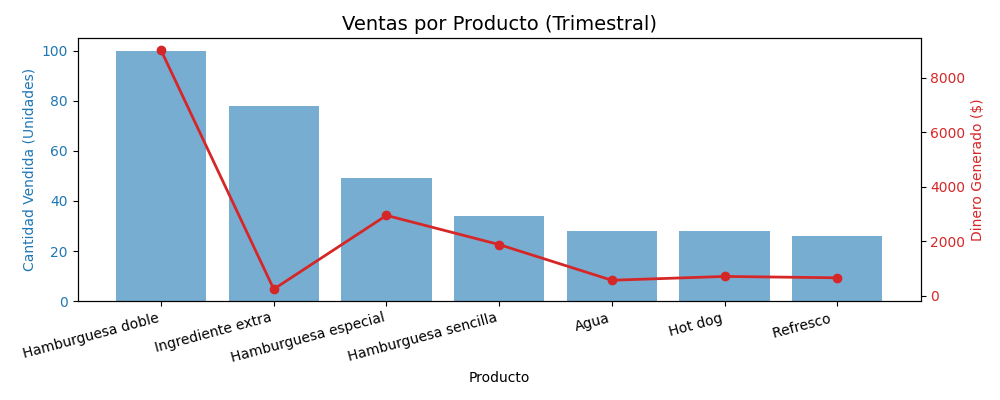
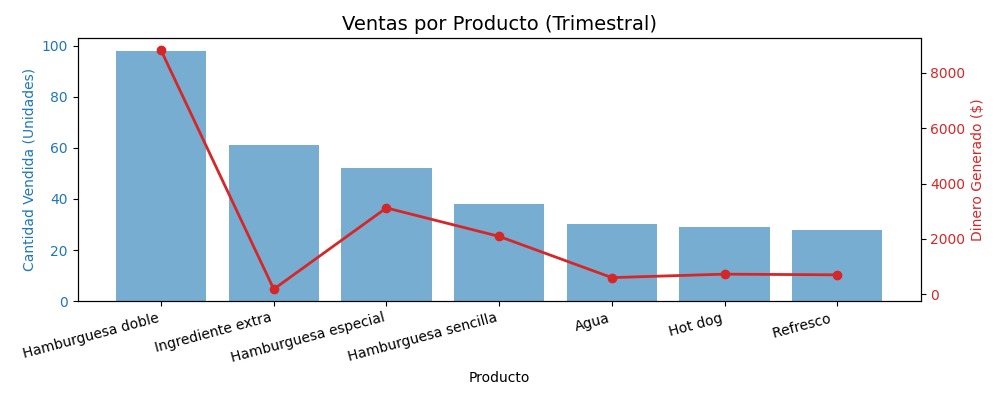
Aplicar cambios a ventas tomando en cuenta cambios en BD.

diff --git a/model/ventasCRUD.py b/model/ventasCRUD.py
@@ -94,7 +94,7 @@ class detalleVenta:
             messagebox.showinfo("Aviso", "Error al conectarse a la base de datos")
             return False
         try:
-            cursor.execute("select id_menu,precio from menu where nombre = %s", (producto,))
+            cursor.execute("select id_menu,precio from productos where nombre = %s", (producto,))
             registros = cursor.fetchall()
             if not registros:
                 messagebox.showerror("Error", f"No existe el producto '{producto}' en el menú.")
@@ -118,7 +118,7 @@ class detalleVenta:
             cursor.execute("""
                 SELECT dv.id_detalle, dv.id_venta, m.nombre, dv.cantidad, dv.subtotal
                 FROM detalle_venta dv
-                JOIN menu m ON dv.id_menu = m.id_menu
+                JOIN productos m ON dv.id_menu = m.id_menu
                 WHERE dv.id_venta = %s
             """, (id,))
             return cursor.fetchall()
@@ -133,7 +133,7 @@ class detalleVenta:
             messagebox.showinfo("Aviso", "Error al conectarse a la base de datos")
             return False
         try:
-            cursor.execute("select precio from menu where nombre = %s", (producto,))
+            cursor.execute("select precio from productos where nombre = %s", (producto,))
             registros = cursor.fetchall()
             if not registros:
                 messagebox.showerror("Error", f"No existe el producto '{producto}' en el menú.")
@@ -188,7 +188,7 @@ class detalleVenta:
         try:
             cursor.execute("""
                 SELECT m.id_menu, COALESCE(dv.cantidad, 0) as cantidad
-                FROM menu m
+                FROM productos m
                 LEFT JOIN detalle_venta dv ON dv.id_menu = m.id_menu AND dv.id_venta = %s
                 ORDER BY m.id_menu
             """, (id_venta,))
@@ -229,7 +229,7 @@ class menu:
             messagebox.showinfo("Aviso", "Error al conectarse a la base de datos")
             return []
         try:
-            cursor.execute("select precio from menu order by id_menu")
+            cursor.execute("select precio from productos order by id_menu")
             return cursor.fetchall()
         except Exception as e:
             messagebox.showerror("Error", f"No se pudieron obtener precios: {e}")
@@ -242,7 +242,7 @@ class menu:
             messagebox.showinfo("Aviso", "Error al conectarse a la base de datos")
             return []
         try:
-            cursor.execute("select nombre from menu order by id_menu")
+            cursor.execute("select nombre from productos order by id_menu")
             return cursor.fetchall()
         except Exception as e:
             messagebox.showerror("Error", f"No se pudieron obtener productos: {e}")
@@ -273,7 +273,7 @@ class reportes:
             SELECT m.nombre, SUM(dv.cantidad) as total_cantidad, SUM(dv.subtotal) as total_dinero
             FROM detalle_venta dv
             JOIN ventas v ON dv.id_venta = v.id_venta
-            JOIN menu m ON dv.id_menu = m.id_menu
+            JOIN productos m ON dv.id_menu = m.id_menu
             WHERE v.fecha_venta >= DATE_SUB(CURDATE(), {intervalo})
             GROUP BY m.nombre
             ORDER BY total_cantidad DESC

diff --git a/view/ventas/ventas.py b/view/ventas/ventas.py
@@ -613,7 +613,7 @@ class insertarVentas(Frame):
 
                 fecha = registros[0][0]
                 self.fecha.set_date(fecha)
-                hora = registros[0][1]
+                hora = str(registros[0][1])
                 hora = hora.split(":")
                 self.spin_hora.delete(0,"end")
                 self.spin_minuto.delete(0,"end")
